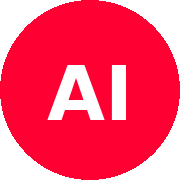
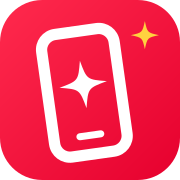
f

diff --git a/client/landing/privacy.html b/client/landing/privacy.html
@@ -1,0 +1,99 @@
+<!doctype html>
+<html lang="en">
+<head>
+  <meta charset="utf-8" />
+  <meta name="viewport" content="width=device-width, initial-scale=1" />
+  <title>Privacy policy — AI Video Manager</title>
+  <meta name="description" content="How AI Video Manager collects, uses, stores and deletes information, including data from YouTube and Google accounts." />
+  <link rel="canonical" href="https://aividman.store/privacy" />
+  <link rel="icon" href="/favicon.svg" type="image/svg+xml" />
+  <link rel="icon" href="/favicon.png" type="image/png" sizes="64x64" />
+  <link rel="apple-touch-icon" href="/apple-touch-icon.png" />
+  <meta name="theme-color" content="#FF0033" />
+  <link rel="stylesheet" href="/landing/landing.css" />
+  <script src="/landing/legal.js" defer></script>
+</head>
+<body class="legalPage">
+  <a class="skip" href="#main">Skip to content</a>
+  <header class="top">
+    <a class="brand" href="/"><img class="brandLogo" src="/landing/logo-mark.svg" alt="" width="32" height="32" /><span data-site="brand">AI Video Manager</span></a>
+    <nav aria-label="Main"><a href="/#features">Features</a><a href="/#pricing">Pricing</a><a href="/privacy">Privacy</a><a href="/terms">Terms</a></nav>
+    <div class="topActions"><a class="link" href="/app/">Sign in</a></div>
+  </header>
+  <main id="main" class="legalDoc">
+    <h1>Privacy policy</h1>
+    <p class="updated">Last updated: 28 November 2026</p>
+    <div class="custom" data-legal-custom="privacy" hidden></div>
+    <div class="standard" data-legal-standard>
+
+<p>This policy explains what information <b data-site="business">AI Video Manager</b> ("we", "us") handles when you visit aividman.store, buy a plan, or use the AI Video Manager software ("the app"), and what choices you have. If you have a question, reach us through <span data-contact>the contact details on our <a href="/#contact">home page</a></span>.</p>
+
+<h2>Summary</h2>
+<ul>
+  <li>The app makes and uploads videos to <b>your</b> YouTube channel, only after you connect it and only for that purpose.</li>
+  <li>Your YouTube access and API keys are stored <b>encrypted</b> and are never sold, shared for advertising, or used to train AI.</li>
+  <li>You can disconnect YouTube and delete your data at any time.</li>
+</ul>
+
+<h2>1. Information we handle</h2>
+<h3>Website visitors</h3>
+<p>The home page does not use advertising or analytics cookies and does not track you across sites. Our hosting provider keeps standard server logs (IP address, browser, pages requested, time) for security and troubleshooting.</p>
+<h3>Customers</h3>
+<p>When you contact us or buy a plan we receive what you send us: your name, email address or phone/WhatsApp number, the plan you chose and payment confirmation. Payments are handled by the payment service you use; we do not see or store full card or bank details.</p>
+<h3>Inside the app</h3>
+<ul>
+  <li><b>Account:</b> the admin password, stored only as a secure one-way hash, and a sign-in cookie.</li>
+  <li><b>YouTube / Google account data:</b> when you connect a channel, Google gives the app an access token and a refresh token, and the app reads your channel's name and ID. These tokens let the app upload videos you approve (or that your Autopilot settings allow), set their title, description, tags, thumbnail and schedule, and read basic channel and video details shown in the dashboard.</li>
+  <li><b>API keys</b> you add for AI services (for example Gemini, Groq, Cloudflare, OpenAI, AI Awaaz, ElevenLabs). They are stored encrypted and shown only as their last four characters.</li>
+  <li><b>Content you create:</b> channel profiles, topics, scripts, narration, images, audio, videos, upload settings, logs and quality reports.</li>
+  <li><b>Telegram (optional):</b> if you connect a Telegram bot, its token and the chat IDs you allow.</li>
+</ul>
+
+<h2>2. How we use information</h2>
+<ul>
+  <li>To make videos: write scripts, create images and narration, render and check videos.</li>
+  <li>To upload and schedule videos on the YouTube channel you connected, and show their status to you.</li>
+  <li>To send you notifications you turned on (for example in Telegram).</li>
+  <li>To provide support, deliver your purchase, keep the service secure and fix problems.</li>
+</ul>
+<p>We do not sell personal information, do not use it for advertising, and do not use your YouTube data or content to train AI models.</p>
+
+<h2>3. YouTube API Services and Google user data</h2>
+<p>The app uses <b>YouTube API Services</b> to upload and manage videos on your channel. By connecting a YouTube channel you agree to the <a href="https://www.youtube.com/t/terms" rel="noopener" target="_blank">YouTube Terms of Service</a>, and Google's handling of your data is described in the <a href="https://policies.google.com/privacy" rel="noopener" target="_blank">Google Privacy Policy</a>.</p>
+<p>AI Video Manager's use and transfer of information received from Google APIs adheres to the <a href="https://developers.google.com/terms/api-services-user-data-policy" rel="noopener" target="_blank">Google API Services User Data Policy</a>, including the Limited Use requirements. Google user data is used only to provide the features you see in the app, is not transferred to others except as needed to provide those features, for security, or to comply with law, and is never used for advertising.</p>
+<p>You can remove the app's access at any time in your <a href="https://security.google.com/settings/security/permissions" rel="noopener" target="_blank">Google Account security settings</a> or with <b>Disconnect</b> in the app. When access is removed, the stored tokens are deleted or stop working, and channel data the app saved is deleted within 30 days unless you ask us to delete it sooner.</p>
+
+<h2>4. Services that process data for us</h2>
+<p>To make a video, the app sends the needed text, prompts or audio to the AI services <b>you choose and add keys for</b> (for example script, image, voice and speech-to-text services). Those services process the data under their own terms and privacy policies, with your account. Other providers we rely on: our web host, our database host (MongoDB Atlas), Google/YouTube for uploads, Telegram if you turn it on, and Cloudflare if you use it.</p>
+
+<h2>5. Where data is stored and how it is protected</h2>
+<p>Data is stored on our web host and database host. Access to the app requires a password; connections use HTTPS; API keys and YouTube tokens are encrypted at rest; sign-in is rate-limited. No method of storage or transfer is completely secure, but we work to protect your information and will tell you without undue delay if a breach affects you.</p>
+
+<h2>6. How long we keep data</h2>
+<ul>
+  <li>Videos, images and audio: until you delete them, or as set in the app's storage clean-up settings.</li>
+  <li>YouTube tokens and API keys: until you disconnect or remove them.</li>
+  <li>Customer and purchase records: as long as needed for your licence, support and legal or tax requirements.</li>
+  <li>Server logs: kept for a short period for security.</li>
+</ul>
+
+<h2>7. Your choices and rights</h2>
+<p>You can see, change, export or delete your data in the app, disconnect YouTube, and remove API keys at any time. You can also ask us to access, correct or delete personal information we hold about you, or withdraw consent, by contacting us through <span data-contact>the contact details on our <a href="/#contact">home page</a></span>. Where the law gives you more rights (for example India's Digital Personal Data Protection Act, 2023, or the GDPR), we will honour them.</p>
+
+<h2>8. Children</h2>
+<p>The service is not meant for children under 13, and plans may only be bought by adults (18 or over). We do not knowingly collect data from children.</p>
+
+<h2>9. Changes to this policy</h2>
+<p>We may update this policy. We will change the date above and, for important changes, tell customers by email, WhatsApp or in the app.</p>
+
+<h2>10. Contact and grievances</h2>
+<p>For privacy questions, requests or complaints, contact <b data-site="business">AI Video Manager</b> through <span data-contact>the contact details on our <a href="/#contact">home page</a></span>. We aim to reply within 7 days and resolve complaints within 30 days.</p>
+    </div>
+  </main>
+  <footer class="foot">
+    <p>© <span data-year></span> <span data-site="business">AI Video Manager</span></p>
+    <p class="footLinks"><a href="/">Home</a><a href="/privacy">Privacy policy</a><a href="/terms">Terms of service</a><a href="/#contact">Contact</a></p>
+    <p class="disclaimer">Not affiliated with, endorsed or sponsored by YouTube or Google. YouTube is a trademark of Google LLC.</p>
+  </footer>
+</body>
+</html>

diff --git a/client/landing/terms.html b/client/landing/terms.html
@@ -1,0 +1,91 @@
+<!doctype html>
+<html lang="en">
+<head>
+  <meta charset="utf-8" />
+  <meta name="viewport" content="width=device-width, initial-scale=1" />
+  <title>Terms of service — AI Video Manager</title>
+  <meta name="description" content="The terms for buying and using AI Video Manager, the AI YouTube Shorts maker." />
+  <link rel="canonical" href="https://aividman.store/terms" />
+  <link rel="icon" href="/favicon.svg" type="image/svg+xml" />
+  <link rel="icon" href="/favicon.png" type="image/png" sizes="64x64" />
+  <link rel="apple-touch-icon" href="/apple-touch-icon.png" />
+  <meta name="theme-color" content="#FF0033" />
+  <link rel="stylesheet" href="/landing/landing.css" />
+  <script src="/landing/legal.js" defer></script>
+</head>
+<body class="legalPage">
+  <a class="skip" href="#main">Skip to content</a>
+  <header class="top">
+    <a class="brand" href="/"><img class="brandLogo" src="/landing/logo-mark.svg" alt="" width="32" height="32" /><span data-site="brand">AI Video Manager</span></a>
+    <nav aria-label="Main"><a href="/#features">Features</a><a href="/#pricing">Pricing</a><a href="/privacy">Privacy</a><a href="/terms">Terms</a></nav>
+    <div class="topActions"><a class="link" href="/app/">Sign in</a></div>
+  </header>
+  <main id="main" class="legalDoc">
+    <h1>Terms of service</h1>
+    <p class="updated">Last updated: 28 November 2026</p>
+    <div class="custom" data-legal-custom="terms" hidden></div>
+    <div class="standard" data-legal-standard>
+
+<p>These terms are an agreement between you and <b data-site="business">AI Video Manager</b> ("we", "us") for using aividman.store and the AI Video Manager software ("the app"). By buying a plan or using the app you accept these terms. If you do not agree, do not use the app.</p>
+
+<h2>1. The service</h2>
+<p>The app helps you plan, create and upload YouTube Shorts: it suggests topics, writes scripts, creates images and narration using AI services you connect, renders videos and uploads them to YouTube channels you connect.</p>
+
+<h2>2. Plans and licence</h2>
+<ul>
+  <li>Plans are a one-time payment for <b>lifetime access</b> for <b>one user</b>, for the number of YouTube channels in the plan (1, 2, 4 or unlimited). "Lifetime" means for as long as we offer and support the app.</li>
+  <li>We grant you a personal, non-transferable, non-exclusive licence to use the app. You may not resell, share, sublicense, copy or reverse-engineer it, or use it to offer a competing service.</li>
+  <li>You can upgrade to a bigger plan by paying the difference.</li>
+</ul>
+
+<h2>3. Your accounts and API keys</h2>
+<ul>
+  <li>You use your own accounts and API keys for AI services, YouTube and Telegram. You are responsible for those accounts, their terms, and any charges from them. Free tiers and limits are set by those providers and can change.</li>
+  <li>Keep your password and keys safe and tell us if you think your account was misused.</li>
+</ul>
+
+<h2>4. YouTube</h2>
+<p>The app uses YouTube API Services. By connecting a channel you agree to the <a href="https://www.youtube.com/t/terms" rel="noopener" target="_blank">YouTube Terms of Service</a> and acknowledge the <a href="https://policies.google.com/privacy" rel="noopener" target="_blank">Google Privacy Policy</a>. You are responsible for following YouTube's Community Guidelines, monetisation policies and rules on altered or synthetic (AI) content, including labelling where required. YouTube may limit, make private or remove videos, or limit API access; we do not control that.</p>
+
+<h2>5. Your content</h2>
+<ul>
+  <li>You own the content you create with the app, subject to the terms of the AI services that generated it.</li>
+  <li>You are solely responsible for what is published on your channels. Review AI output for accuracy and suitability; AI can make mistakes, including in facts, images, spelling and pronunciation.</li>
+  <li>You must not use the app for spam or mass-produced misleading content; content that is illegal, hateful, sexual, violent, harassing or harmful to children; impersonation; copyright or trademark infringement; or misleading medical, financial or political claims.</li>
+</ul>
+
+<h2>6. Payments and refunds</h2>
+<p>Prices are shown on the <a href="/#pricing">pricing section</a> and may change for future purchases. <span data-site="refund">Refunds are handled as described in our refund policy; contact us before buying if you have questions.</span></p>
+
+<h2>7. Availability and changes</h2>
+<p>We work to keep the app running and up to date, but it may sometimes be unavailable, and features may change, especially when AI or YouTube services change. Third-party services can stop, change prices or limit use at any time.</p>
+
+<h2>8. No guarantees</h2>
+<p>The app is provided "as is". We do not promise any number of views, subscribers, watch time or earnings, or that YouTube will accept, recommend or monetise your videos.</p>
+
+<h2>9. Limitation of liability</h2>
+<p>To the extent the law allows, we are not liable for indirect or consequential losses, lost profits, lost data, channel strikes or account actions by YouTube or other services, or for content you publish. Our total liability for any claim is limited to the amount you paid for your plan.</p>
+
+<h2>10. Ending use</h2>
+<p>You can stop using the app at any time and ask us to delete your data. We may suspend or end access if you break these terms or misuse the service, after telling you where possible.</p>
+
+<h2>11. Privacy</h2>
+<p>Our <a href="/privacy">privacy policy</a> explains how we handle data.</p>
+
+<h2>12. Law and disputes</h2>
+<p>These terms are governed by the laws of India. Please contact us first so we can try to resolve any problem; if we cannot, disputes go to the courts with jurisdiction where <b data-site="business">AI Video Manager</b> is based.</p>
+
+<h2>13. Changes to these terms</h2>
+<p>We may update these terms. The date above shows the latest version; for important changes we will tell customers in advance.</p>
+
+<h2>14. Contact</h2>
+<p>Questions about these terms: contact <b data-site="business">AI Video Manager</b> through <span data-contact>the contact details on our <a href="/#contact">home page</a></span>.</p>
+    </div>
+  </main>
+  <footer class="foot">
+    <p>© <span data-year></span> <span data-site="business">AI Video Manager</span></p>
+    <p class="footLinks"><a href="/">Home</a><a href="/privacy">Privacy policy</a><a href="/terms">Terms of service</a><a href="/#contact">Contact</a></p>
+    <p class="disclaimer">Not affiliated with, endorsed or sponsored by YouTube or Google. YouTube is a trademark of Google LLC.</p>
+  </footer>
+</body>
+</html>

diff --git a/client/landing/index.html b/client/landing/index.html
@@ -30,6 +30,7 @@
   <meta name="twitter:image" content="https://aividman.store/og-image.png" />
   <script type="application/ld+json">{"@context":"https://schema.org","@type":"SoftwareApplication","name":"AI Video Manager","applicationCategory":"MultimediaApplication","applicationSubCategory":"Video automation","operatingSystem":"Web","url":"https://aividman.store/","image":"https://aividman.store/og-image.png","description":"AI Video Manager makes YouTube Shorts for you: it picks a trending topic, writes the script, draws each scene, records Hindi or English narration, renders a 9:16 video and uploads it with SEO. Lifetime plans from $9.99.","inLanguage":["en","hi"],"featureList":["Trending topic ideas from Google Trends and YouTube","AI script writing in Hindi, English and Hinglish","Scene images planned from the narration","Hindi and English AI voices","Vertical 9:16 Shorts with subtitles","SEO titles, descriptions, tags and hashtags","Scheduled uploads to YouTube","Autopilot: up to two videos a day","Telegram notifications, approval and scene editing","Backup AI providers when one fails"],"offers":[{"@type":"Offer","name":"Starter","price":"9.99","priceCurrency":"USD","url":"https://aividman.store/#pricing","availability":"https://schema.org/InStock","description":"1 user, 1 YouTube channel, lifetime access"},{"@type":"Offer","name":"Duo","price":"14.99","priceCurrency":"USD","url":"https://aividman.store/#pricing","availability":"https://schema.org/InStock","description":"1 user, 2 YouTube channels, lifetime access"},{"@type":"Offer","name":"Creator","price":"19.99","priceCurrency":"USD","url":"https://aividman.store/#pricing","availability":"https://schema.org/InStock","description":"1 user, 4 YouTube channels, lifetime access"},{"@type":"Offer","name":"Unlimited","price":"49.99","priceCurrency":"USD","url":"https://aividman.store/#pricing","availability":"https://schema.org/InStock","description":"1 user, unlimited YouTube channels, lifetime access"}]}</script>
   <script type="application/ld+json">{"@context":"https://schema.org","@type":"WebSite","name":"AI Video Manager","url":"https://aividman.store/"}</script>
+  <script type="application/ld+json">{"@context":"https://schema.org","@type":"Organization","name":"AI Video Manager","url":"https://aividman.store/","logo":"https://aividman.store/logo-512.png"}</script>
   <script type="application/ld+json">{"@context":"https://schema.org","@type":"FAQPage","mainEntity":[{"@type":"Question","name":"Do I pay anything every month?","acceptedAnswer":{"@type":"Answer","text":"No. The plan is a one-time payment. The AI services have free tiers that are enough for a few videos a day; if you choose paid services, they bill you directly."}},{"@type":"Question","name":"Which languages does it support?","acceptedAnswer":{"@type":"Answer","text":"Scripts and voices in Hindi, English and Hinglish. Other languages work for scripts; voice support depends on the voice service you pick."}},{"@type":"Question","name":"Will my videos be uploaded without me checking them?","acceptedAnswer":{"@type":"Answer","text":"Only if you turn on fully automatic Autopilot. Otherwise every video waits for your approval in the dashboard or in Telegram."}},{"@type":"Question","name":"Is it allowed by YouTube?","acceptedAnswer":{"@type":"Answer","text":"It uploads through YouTube's official API with your permission, and can mark videos as AI-generated content. You are responsible for following YouTube's policies and for the content on your channel."}},{"@type":"Question","name":"Can I add more channels later?","acceptedAnswer":{"@type":"Answer","text":"Yes. Upgrade to a bigger plan at any time and pay only the difference."}},{"@type":"Question","name":"What happens to my API keys?","acceptedAnswer":{"@type":"Answer","text":"They are stored encrypted, used only to make your videos, and never shown again in the dashboard. You can remove them at any time."}}]}</script>
   <link rel="stylesheet" href="/landing/landing.css" />
   <script src="/landing/site.js" defer></script>
@@ -38,7 +39,7 @@
   <a class="skip" href="#main">Skip to content</a>
 
   <header class="top">
-    <a class="brand" href="/"><span class="brandMark" aria-hidden="true"></span><span data-site="brand">AI Video Manager</span></a>
+    <a class="brand" href="/"><img class="brandLogo" src="/landing/logo-mark.svg" alt="" width="32" height="32" /><span data-site="brand">AI Video Manager</span></a>
     <nav aria-label="Main">
       <a href="#how">How it works</a>
       <a href="#features">Features</a>
@@ -260,14 +261,10 @@
     </section>
   </main>
 
-  <section id="legal" class="legal" hidden>
-    <details id="terms" hidden><summary>Terms of use</summary><div class="legalText" data-site="terms"></div></details>
-    <details id="privacy" hidden><summary>Privacy policy</summary><div class="legalText" data-site="privacy"></div></details>
-  </section>
 
   <footer class="foot">
     <p>© <span data-year></span> <span data-site="business">AI Video Manager</span></p>
-    <p class="footLinks"><a href="#faq">Refunds</a><a href="#terms" data-legal="terms" hidden>Terms</a><a href="#privacy" data-legal="privacy" hidden>Privacy</a><a href="#contact">Contact</a><a href="/app/">Sign in</a></p>
+    <p class="footLinks"><a href="#faq">Refunds</a><a href="/terms">Terms of service</a><a href="/privacy">Privacy policy</a><a href="#contact">Contact</a><a href="/app/">Sign in</a></p>
     <p class="disclaimer">Not affiliated with, endorsed or sponsored by YouTube or Google. YouTube is a trademark of Google LLC. Results such as views or subscribers are not guaranteed.</p>
   </footer>
 </body>

diff --git a/server/src/app.js b/server/src/app.js
@@ -21,13 +21,16 @@ if(existsSync(path.join(landingDir,'index.html'))){
   app.use('/landing',express.static(landingDir,noCacheHtml));
   app.get('/',(_req,res)=>{res.setHeader('Cache-Control','no-cache');res.sendFile(path.join(landingDir,'index.html'));});
   // Icons and the sharing image at the site root, where browsers and social sites look for them.
-  for(const [route,file] of [['/favicon.svg','favicon.svg'],['/favicon.png','favicon.png'],['/favicon.ico','favicon.png'],['/apple-touch-icon.png','apple-touch-icon.png'],['/og-image.png','og-image.png']])
+  // Privacy policy and terms of service (linked from the home page, YouTube/Google app review).
+  for(const [route,file] of [['/privacy','privacy.html'],['/terms','terms.html']])
+    app.get([route,`${route}.html`],(_req,res)=>{res.setHeader('Cache-Control','no-cache');res.sendFile(path.join(landingDir,file));});
+  for(const [route,file] of [['/favicon.svg','favicon.svg'],['/favicon.png','favicon.png'],['/favicon.ico','favicon.png'],['/apple-touch-icon.png','apple-touch-icon.png'],['/og-image.png','og-image.png'],['/logo.svg','logo.svg'],['/logo.png','logo.png'],['/logo-512.png','logo-512.png']])
     app.get(route,(_req,res)=>{res.setHeader('Cache-Control','public, max-age=604800');res.sendFile(path.join(landingDir,file));});
 }
 // Search engines: index the home page only; never the dashboard, API or videos.
 const siteUrl=()=>String(process.env.PUBLIC_URL||'https://aividman.store').trim().replace(/\/+$/,'');
 app.get('/robots.txt',(_req,res)=>res.type('text/plain').send(`User-agent: *\nDisallow: /app/\nDisallow: /api/\nDisallow: /storage/\n\nSitemap: ${siteUrl()}/sitemap.xml\n`));
-app.get('/sitemap.xml',(_req,res)=>{let mod='';try{mod=statSync(path.join(landingDir,'index.html')).mtime.toISOString().slice(0,10);}catch{}res.type('application/xml').send(`<?xml version="1.0" encoding="UTF-8"?>\n<urlset xmlns="http://www.sitemaps.org/schemas/sitemap/0.9">\n  <url><loc>${siteUrl()}/</loc>${mod?`<lastmod>${mod}</lastmod>`:''}<changefreq>weekly</changefreq><priority>1.0</priority></url>\n</urlset>\n`);});
+app.get('/sitemap.xml',(_req,res)=>{let mod='';try{mod=statSync(path.join(landingDir,'index.html')).mtime.toISOString().slice(0,10);}catch{}res.type('application/xml').send(`<?xml version="1.0" encoding="UTF-8"?>\n<urlset xmlns="http://www.sitemaps.org/schemas/sitemap/0.9">\n  <url><loc>${siteUrl()}/</loc>${mod?`<lastmod>${mod}</lastmod>`:''}<changefreq>weekly</changefreq><priority>1.0</priority></url>\n  <url><loc>${siteUrl()}/privacy</loc><changefreq>yearly</changefreq><priority>0.3</priority></url>\n  <url><loc>${siteUrl()}/terms</loc><changefreq>yearly</changefreq><priority>0.3</priority></url>\n</urlset>\n`);});
 app.get(/^\/app$/,(req,res)=>res.redirect(302,'/app/'+(req.url.includes('?')?req.url.slice(req.url.indexOf('?')):''))); // exact /app only (a plain '/app' route also matches '/app/' and looped)
 if(existsSync(path.join(clientDist,'index.html'))){
   app.use('/app',express.static(clientDist,{...noCacheHtml,maxAge:'7d'}));

diff --git a/client/src/App.jsx b/client/src/App.jsx
@@ -525,7 +525,7 @@ function LoginScreen({locked,onLogin}){
   const [form,setForm]=useState({username:'admin',password:''}),[busy,setBusy]=useState(false),[msg,setMsg]=useState('');
   async function submit(e){e.preventDefault();setBusy(true);setMsg('');try{const r=await fetch(`${API}/auth/login`,{method:'POST',headers:{'Content-Type':'application/json'},credentials:'include',body:JSON.stringify(form)});const j=await r.json().catch(()=>({}));if(!r.ok)throw new Error(j.error||`Login failed (${r.status})`);setForm(f=>({...f,password:''}));onLogin(j);}catch(err){setMsg(err.message)}finally{setBusy(false)}}
   return <div className="loginPage"><form className="loginCard" onSubmit={submit}>
-    <div className="brand"><div className="logo">AI</div><div><b>AI Video Manager</b><small>Channel Studio</small></div></div>
+    <div className="brand"><img className="logo" src={`${import.meta.env.BASE_URL||"/"}logo-mark.svg`} alt=""/><div><b>AI Video Manager</b><small>Channel Studio</small></div></div>
     {locked?<div className="banner error"><span>This server has no admin password yet. Set <code>ADMIN_PASSWORD</code> (or <code>ADMIN_PASSWORD_HASH</code>) in the app's environment variables and restart it.</span></div>:<>
       <label>Username<input autoComplete="username" value={form.username} onChange={e=>setForm(f=>({...f,username:e.target.value}))}/></label>
       <label>Password<input type="password" autoComplete="current-password" autoFocus value={form.password} onChange={e=>setForm(f=>({...f,password:e.target.value}))}/></label>
@@ -777,7 +777,7 @@ function App(){
  if(auth.required&&!auth.loggedIn)return <LoginScreen locked={auth.locked} onLogin={()=>{setAuth(a=>({...a,loggedIn:true}));checkBackend();refresh();refreshStats();refreshActive();loadAI();loadSeries(true);}}/>;
  return <div className="app">
   <aside className="sidebar">
-   <div className="brand"><div className="logo">AI</div><div><b>AI Video Manager</b><small>Channel Studio</small></div></div>
+   <div className="brand"><img className="logo" src={`${import.meta.env.BASE_URL||"/"}logo-mark.svg`} alt=""/><div><b>AI Video Manager</b><small>Channel Studio</small></div></div>
    <nav>{NAV.map(([id,name])=><button key={id} className={`navItem ${tab===id?'active':''}`} onClick={()=>setTab(id)}><Icon name={id}/><span>{name}</span>{id==='videos'&&awaiting>0&&<em className="navBadge">{awaiting}</em>}</button>)}</nav>
    <div className="sideFooter">
      <div className={`backendPill ${backendStatus}`}><i/>{backendStatus==='online'?'Backend online':backendStatus==='checking'?'Connecting…':'Backend offline'}</div>

diff --git a/client/landing/legal.js b/client/landing/legal.js
@@ -1,0 +1,25 @@
+// Privacy / terms pages: fill in the business name and contact details from Settings → Home page.
+// If you wrote your own policy text there, it is shown instead of the standard text.
+(function () {
+  const $$ = s => Array.from(document.querySelectorAll(s));
+  const digits = v => String(v || '').replace(/\D/g, '');
+  $$('[data-year]').forEach(el => { el.textContent = String(new Date().getFullYear()); });
+  fetch('/api/site').then(r => (r.ok ? r.json() : {})).catch(() => ({})).then(site => {
+    const name = site.business || site.brand || 'AI Video Manager';
+    $$('[data-site="business"]').forEach(el => { el.textContent = name; });
+    if (site.brand) $$('[data-site="brand"]').forEach(el => { el.textContent = site.brand; });
+    if (site.refund) $$('[data-site="refund"]').forEach(el => { el.textContent = site.refund; });
+    const parts = [];
+    if (site.email) parts.push(`<a href="mailto:${encodeURI(site.email)}">${site.email.replace(/</g, '&lt;')}</a>`);
+    if (site.whatsapp) parts.push(`WhatsApp <a href="https://wa.me/${digits(site.whatsapp)}" rel="noopener" target="_blank">+${digits(site.whatsapp)}</a>`);
+    if (site.phone) parts.push(`phone ${String(site.phone).replace(/</g, '&lt;')}`);
+    if (parts.length) $$('[data-contact]').forEach(el => { el.innerHTML = parts.join(', '); });
+    const custom = document.querySelector('[data-legal-custom]');
+    const own = custom && String(site[custom.getAttribute('data-legal-custom')] || '').trim();
+    if (own) {
+      custom.textContent = own;           // plain text, kept as written (line breaks preserved by CSS)
+      custom.hidden = false;
+      const std = document.querySelector('[data-legal-standard]'); if (std) std.hidden = true;
+    }
+  });
+})();

diff --git a/client/landing/site.js b/client/landing/site.js
@@ -43,24 +43,13 @@ const SITE_FALLBACK = {brand: 'AI Video Manager'};
       } else if (li.classList.contains('optional')) li.hidden = true;
       else { a.textContent = 'to be added'; a.removeAttribute('href'); li.classList.add('missing'); }
     }
-    // Terms / privacy appear only when written in the dashboard.
-    let anyLegal = false;
-    for (const key of ['terms', 'privacy']) {
-      const has = Boolean(SITE[key]);
-      anyLegal = anyLegal || has;
-      setText(key, SITE[key]);
-      document.getElementById(key).hidden = !has;
-      $$(`[data-legal="${key}"]`).forEach(a => { a.hidden = !has; });
-    }
-    document.getElementById('legal').hidden = !anyLegal;
+    // Terms / privacy now have their own pages (/terms, /privacy).
   }
   render();
   fetch('/api/site', {headers: {Accept: 'application/json'}})
     .then(r => (r.ok ? r.json() : null))
     .then(j => { if (j) { SITE = {...SITE_FALLBACK, ...Object.fromEntries(Object.entries(j).filter(([, v]) => v))}; render(); } })
     .catch(() => {});
-  // Footer links open the matching legal text.
-  $$('[data-legal]').forEach(a => a.addEventListener('click', () => { const d = document.getElementById(a.getAttribute('data-legal')); if (d) d.open = true; }));
   // Buy buttons remember the plan and fill it into the messages.
   $$('[data-buy]').forEach(btn => btn.addEventListener('click', () => {
     plan = btn.getAttribute('data-buy');

diff --git a/client/src/styles.css b/client/src/styles.css
@@ -48,7 +48,7 @@ input[type=checkbox]{width:auto;accent-color:var(--accent)}
 .sidebar{width:236px;flex:none;position:sticky;top:0;height:100vh;display:flex;flex-direction:column;gap:22px;padding:22px 14px;background:#0f0f0f;border-right:1px solid var(--border)}
 .brand{display:flex;gap:10px;align-items:center;padding:0 6px}
 .brand b{display:block;font-size:14.5px}.brand small{color:var(--muted);font-size:12px}
-.logo{width:34px;height:34px;border-radius:50%;display:grid;place-items:center;background:var(--accent);color:#fff;font-size:13px;font-weight:800}
+.logo{width:34px;height:34px;border-radius:9px;display:block;flex:none}
 .sidebar nav{display:grid;gap:3px}
 .navItem{display:flex;align-items:center;gap:11px;background:transparent;color:var(--muted);padding:10px 12px;border-radius:10px;font-weight:550;text-align:left;width:100%}
 .navItem:hover{background:var(--surface2);color:var(--text)}

diff --git a/client/landing/landing.css b/client/landing/landing.css
@@ -168,3 +168,15 @@ section{max-width:var(--wrap);margin:0 auto;padding:88px 24px 0}
 .legal summary{cursor:pointer;font-weight:650}
 .legalText{white-space:pre-line;color:var(--muted);margin-top:10px;max-width:72ch}
 [hidden]{display:none !important}
+
+/* Brand mark image + privacy / terms pages */
+.brandLogo{width:32px;height:32px;display:block;border-radius:8px}
+.legalDoc{max-width:760px;margin:0 auto;padding:24px 24px 64px}
+.legalDoc h1{font-size:clamp(34px,5vw,48px);margin:16px 0 4px}
+.legalDoc .updated{color:var(--muted);font-size:14px;margin:0 0 28px}
+.legalDoc h2{font-size:24px;margin:36px 0 10px}
+.legalDoc h3{font-size:18px;margin:20px 0 6px;font-family:var(--body);font-stretch:normal}
+.legalDoc p,.legalDoc li{line-height:1.7}
+.legalDoc ul{padding-left:22px}
+.legalDoc a{color:var(--teal)}
+.legalDoc .custom{white-space:pre-wrap}

diff --git a/client/index.html b/client/index.html
@@ -5,6 +5,7 @@
     <meta name="viewport" content="width=device-width, initial-scale=1" />
     <meta name="robots" content="noindex, nofollow" />
     <title>AI Video Manager</title>
+    <link rel="icon" href="/favicon.svg" type="image/svg+xml" />
   </head>
   <body>
     <div id="root"></div>
